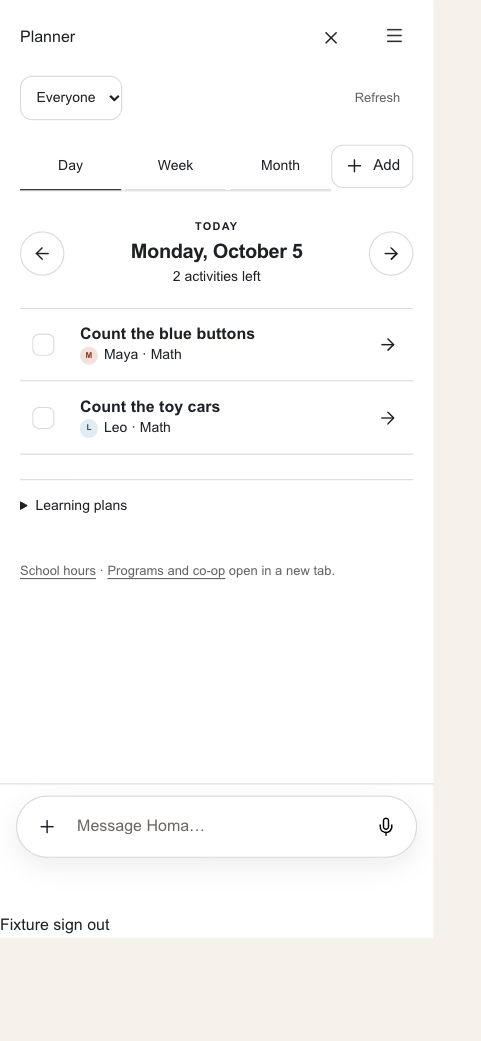
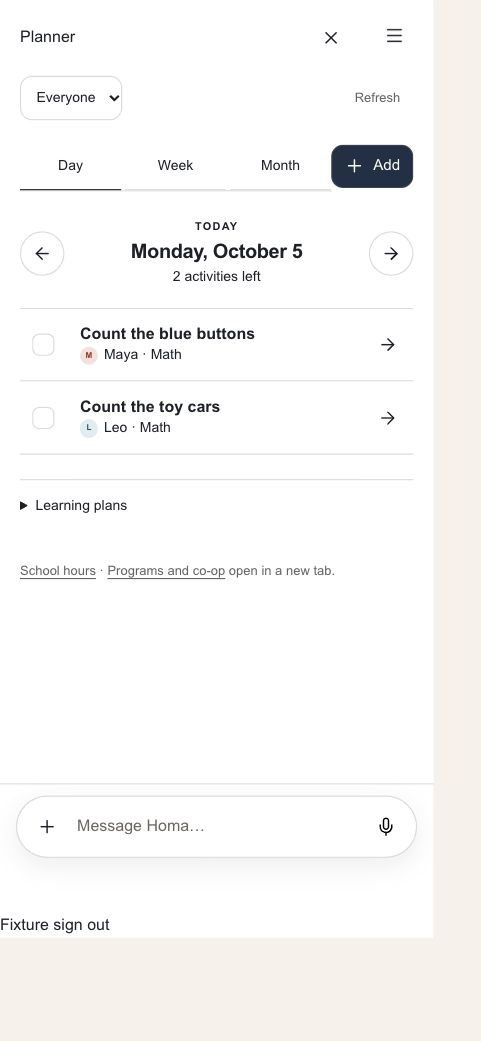
Keep App2 primary action contrast consistent

Changed region(s): [[0.6861, 0.123, 0.8732, 0.1844]]

diff --git a/apps/web/e2e/conversation-controls.spec.ts b/apps/web/e2e/conversation-controls.spec.ts
@@ -855,3 +855,29 @@ test("dismissing an empty-composer question keeps it empty and sign out clears a
   expect(submissions).toHaveLength(0);
   await context.close();
 });
+
+
+test("workspace primary actions retain readable foreground and background pairs", async () => {
+  const { context, page } = await open();
+  await openPlanner(page);
+  async function contrast(name: string) {
+    return page.getByRole("button", { name, exact: true }).evaluate(element => {
+      const style = getComputedStyle(element);
+      const canvas = document.createElement("canvas");
+      const ctx = canvas.getContext("2d")!;
+      const luminance = (color: string) => {
+        ctx.fillStyle = color; ctx.fillRect(0, 0, 1, 1);
+        const rgb = [...ctx.getImageData(0, 0, 1, 1).data].slice(0, 3).map(v => {
+          const c = v / 255; return c <= 0.04045 ? c / 12.92 : ((c + 0.055) / 1.055) ** 2.4;
+        });
+        return rgb[0] * 0.2126 + rgb[1] * 0.7152 + rgb[2] * 0.0722;
+      };
+      const ink = luminance(style.color), background = luminance(style.backgroundColor);
+      return (Math.max(ink, background) + 0.05) / (Math.min(ink, background) + 0.05);
+    });
+  }
+  expect(await contrast("Add")).toBeGreaterThanOrEqual(4.5);
+  await page.getByText("Count the blue buttons", { exact: true }).click();
+  expect(await contrast("Ask about the steps")).toBeGreaterThanOrEqual(4.5);
+  await context.close();
+});

diff --git a/apps/web/app/app2/workspace-shell.module.css b/apps/web/app/app2/workspace-shell.module.css
@@ -151,4 +151,4 @@
 .planner [data-workspace-planner] [data-workspace-day] { clear: both; }
 
 /* Primary actions retain the design contract contrast inside the workspace. */
-.panel :global(.quiet-action--primary) { color: var(--homa-paper); }
+.panel :global(.quiet-action--primary) { color: var(--homa-paper); background: var(--homa-midnight-action); }

diff --git a/docs/homa-design/evidence/2026-10-07-app2-parent-ux/README.md b/docs/homa-design/evidence/2026-10-07-app2-parent-ux/README.md
@@ -19,11 +19,12 @@ Screenshots use the real shared components in the existing conversation-controls
 ![Planner](planner-phone.jpg)
 ![Binder](binder-phone.jpg)
 ![Separate question](question-phone.jpg)
-![Event draft after switching sections](event-draft-phone.jpg)
+![Event draft retained after closing the editor](event-draft-phone.jpg)
+![Progress provenance collapsed](progress-phone.jpg)
 
 ## Validation
 
-- `pnpm exec playwright test --config playwright.conversation-controls.config.ts --workers=1 --reporter=line` in apps/web: 32 passed, including durable queue, file preservation, phone handoff, event save failures, section changes, and sign-out.
+- `pnpm exec playwright test --config playwright.conversation-controls.config.ts --workers=1 --reporter=line` in apps/web: 33 passed, including durable queue, file preservation, phone handoff, event save failures, section changes, and sign-out.
 - `pnpm --filter web typecheck`: passed.
 - Scoped ESLint on the eight changed TypeScript UI components: passed.
 - `pnpm check:progress-ui`: 422 passed.
@@ -37,3 +38,5 @@ Screenshots use the real shared components in the existing conversation-controls
 Reader gate flagged ambiguous prepare terminology and duplicate drafts. Revised to one explicit separate question, Send, and Dismiss. Copy editor returned no must-fix notes; its error-preservation suggestion was applied.
 
 Independent screenshot reviewer found no blocking hierarchy issue in Planner or Binder. Largest remaining usability gap is the low prominence of School hours and Programs compatibility links (#1223). Binder thumbnail recognition with representative materials remains a follow-up under #1227. Existing browser tests cover narrow reflow, large text, forced colors, keyboard navigation, and reduced-motion conditions; screenshots alone do not establish device or screen-reader acceptance.
+
+The final screenshot gate caught a light-on-light Add button. The follow-up fixes the foreground/background as one pair and adds browser-measured contrast checks for Add and activity help (minimum 4.5:1).
